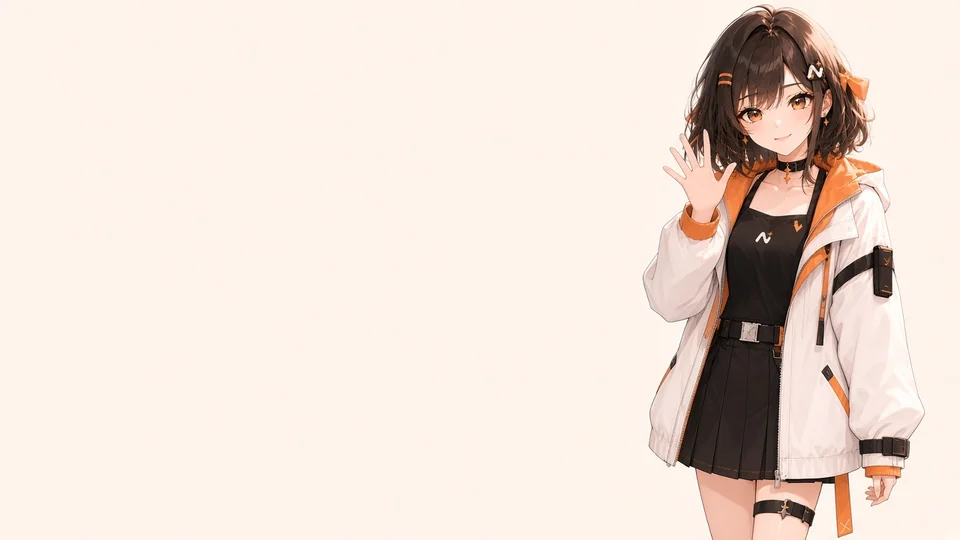
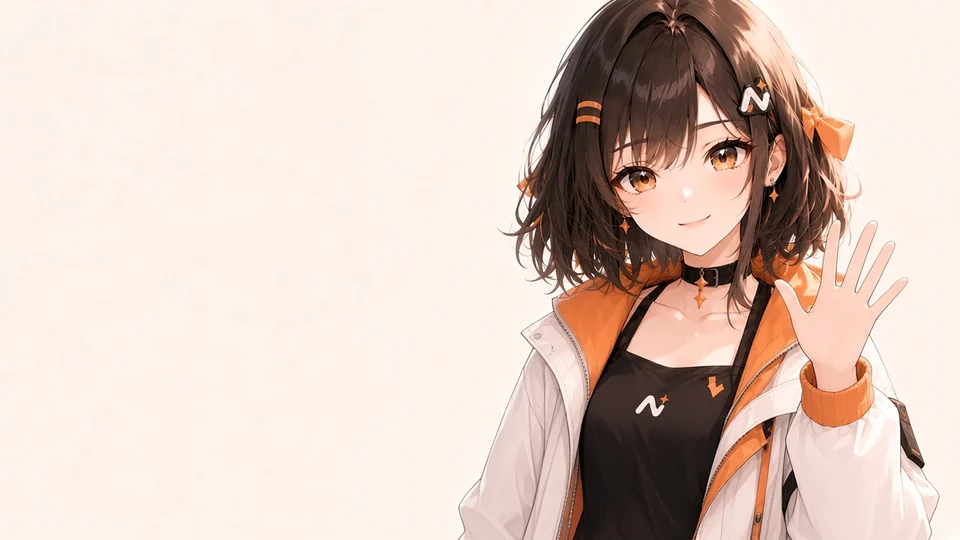
fix(ai-chat): restore half-body onboarding art, keep hands visible, add privacy illustration

diff --git a/packages/ai-chat/src/components/Onboarding/index.tsx b/packages/ai-chat/src/components/Onboarding/index.tsx
@@ -32,6 +32,7 @@ import { useNomiModelStatus } from '../../hooks/useNomiModelStatus';
 import { startupClient, type StartupView } from '../../services/startupClient';
 import { ChatBackgroundSettings } from '../SettingsView/ChatBackgroundSettings';
 
+import privacyArt from './art/privacy.webp';
 import profileArt from './art/profile.webp';
 import providerArt from './art/provider.webp';
 import welcomeArt from './art/welcome.webp';
@@ -66,7 +67,7 @@ const STEP_ART: Record<Step, { src: string; intro?: () => string }> = {
   welcome: { src: welcomeArt, intro: () => t('ui.mascot-theme.intro-welcome') },
   profile: { src: profileArt, intro: () => t('ui.mascot-theme.intro-profile') },
   provider: { src: providerArt, intro: () => t('ui.mascot-theme.intro-provider') },
-  privacy: { src: welcomeArt },
+  privacy: { src: privacyArt },
 };
 
 const LANGS: { id: LocalePref; label: () => string }[] = [

diff --git a/packages/ai-chat/src/components/Onboarding/index.module.css b/packages/ai-chat/src/components/Onboarding/index.module.css
@@ -344,8 +344,7 @@
   cursor: default;
 }
 
-/* 背景插画：高度铺满卡片（auto 100%），靠右下；配图人物（到腰以下）只在原图右侧 ~33%，
-   所以在卡片右侧 ~40% 内完整露出动作；左侧奶油色渐变到 60% 截止，不洗白人物 */
+/* 背景插画：高度铺满卡片（auto 100%），人物靠右下，始终完整；左侧奶油色渐变保证可读 */
 .bg {
   position: absolute;
   inset: 0;
@@ -363,9 +362,9 @@
   background: linear-gradient(
     90deg,
     var(--onb-wash) 0%,
-    var(--onb-wash) 48%,
-    rgba(var(--onb-wash-rgb), 0.8) 54%,
-    rgba(var(--onb-wash-rgb), 0) 60%
+    var(--onb-wash) 46%,
+    rgba(var(--onb-wash-rgb), 0.82) 56%,
+    rgba(var(--onb-wash-rgb), 0) 72%
   );
 }
 .cardArt .step {

diff --git a/CREDITS.md b/CREDITS.md
@@ -8,7 +8,7 @@
 
 - **Brand board, mascot artwork (2D pseudo-3D layered rig `sprite/nomi`, body cut from the owner's half-body illustration, head from the owner's front-facing HD head image), logo concept** — owner-provided, AI-generated, licensed by project owner (Cookieboty) for use in this repository under the MIT licence.
 - **Hand / forearm pieces** (`sprite/nomi/layers/hands/`) — AI-generated, non-brand art (a neutral forearm cuff and hand in nine shapes: wave, fist, thumbs-up, point, rest, peace, plus prayer / OK / hand-on-chest), cut out and colour-matched to the master by Nomi-ai contributors; licensed by the project owner under the MIT licence. They are the only AI-generated pixels added to the rig after the brand artwork was fixed; no brand part (hair, hairclips, bow, earring, choker, jacket, logo, tag) is generated or redrawn — see [docs/BRAND.md](docs/BRAND.md#9-品牌锁).
-- **Onboarding illustrations** (`packages/ai-chat/src/components/Onboarding/art/*.webp`: welcome, appearance, profile, provider) — AI-generated scene art requested by the project owner (Cookieboty) for the first-run guide and licensed by the project owner under the MIT licence. Updated in v2.0.4: welcome / profile / provider were regenerated using the official reference art (`docs/brand/reference/nomi-closeup.png`, `nomi-clean-halfbody.jpg`) as the character reference so Nomi's face, hair and accessories stay consistent across all steps. They are decorative only and are **not** brand-lock master art; the rig and brand parts are unchanged — see [docs/BRAND.md](docs/BRAND.md#9-品牌锁).
+- **Onboarding illustrations** (`packages/ai-chat/src/components/Onboarding/art/*.webp`: welcome, profile, provider, privacy) — AI-generated scene art requested by the project owner (Cookieboty) for the first-run guide and licensed by the project owner under the MIT licence. Updated in v2.0.4: welcome / profile / provider were regenerated using the official reference art (`docs/brand/reference/nomi-closeup.png`, `nomi-clean-halfbody.jpg`) as the character reference so Nomi's face, hair and accessories stay consistent across all steps; the welcome and profile poses were later adjusted so the hands stay visible, and a dedicated privacy illustration was added for step 4. They are decorative only and are **not** brand-lock master art; the rig and brand parts are unchanged — see [docs/BRAND.md](docs/BRAND.md#9-品牌锁).
 - **Vector logo / app icons / tray icons** (`docs/brand/*.svg`, `packages/electron/assets/`) — recreated as vectors from the brand board by Nomi-ai contributors; same terms.
 
 ## Code references

diff --git a/.changeset/onboarding-art-consistent-face.md b/.changeset/onboarding-art-consistent-face.md
@@ -2,6 +2,4 @@
 '@nomi-ai/ai-chat': patch
 ---
 
-新手引导配图（欢迎 / 关于你 / 接入模型，隐私页复用欢迎图）以官方立绘为参考重新绘制，统一 Nomi 的脸型、五官、发型与配饰；各步动作保持不同，人物仍在右侧、左侧留白。
-
-配图改为拉远镜头（到腰以下），人物收在卡片右侧约 40%，左侧渐变到 60% 截止：挥手、本子和笔、发光插头与连线在常规与矮窗口下都完整可见。
+新手引导配图以官方立绘为参考重新绘制，统一 Nomi 的脸型、五官、发型与配饰，保持半身景别；欢迎页挥手与「关于你」的本子和笔收到人物右侧，不再被左侧内容遮挡；隐私页（第 4 步）新增专属配图（双手抱着带锁的发光盾牌），不再复用欢迎图。
